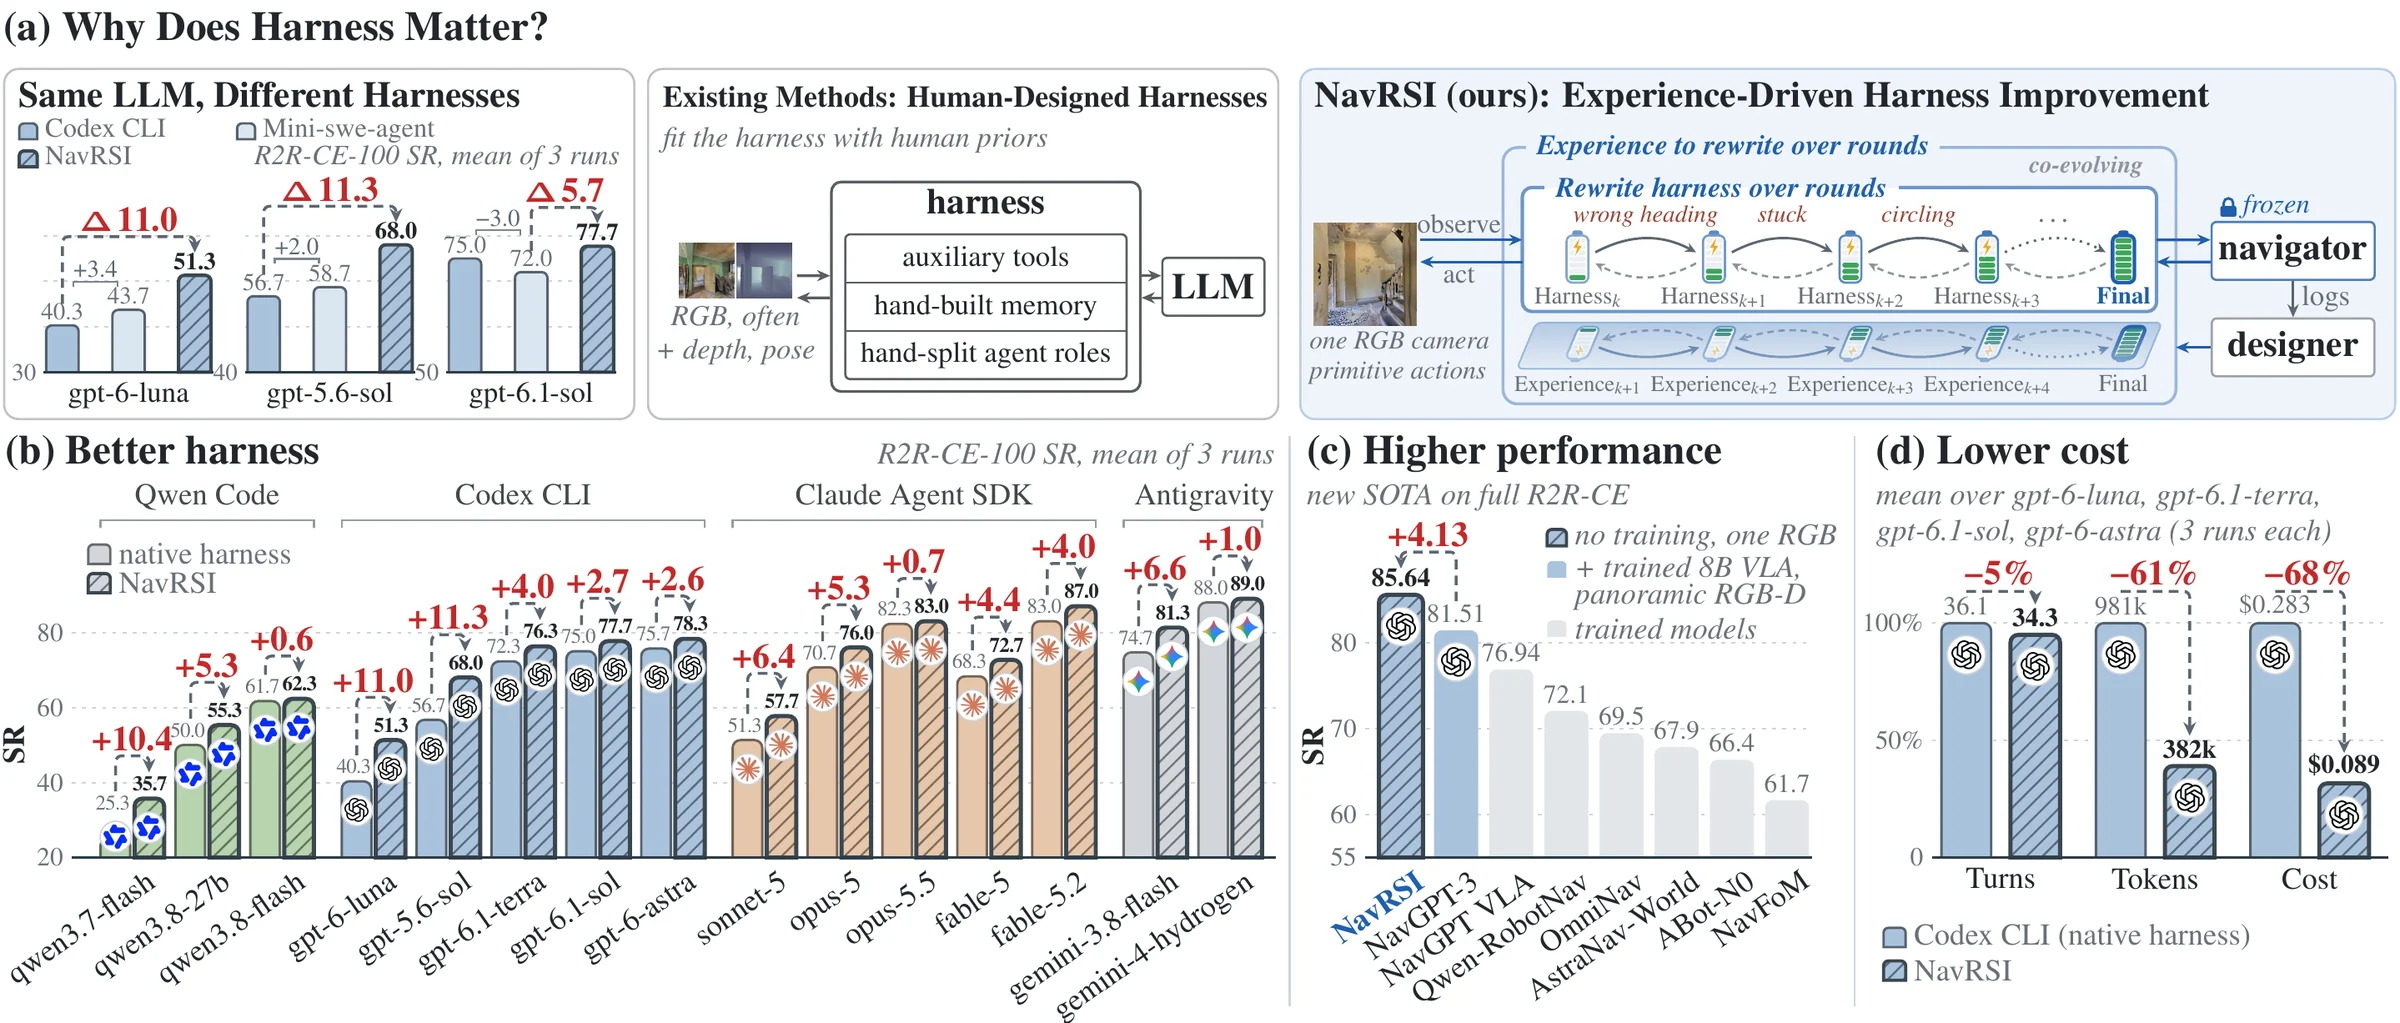
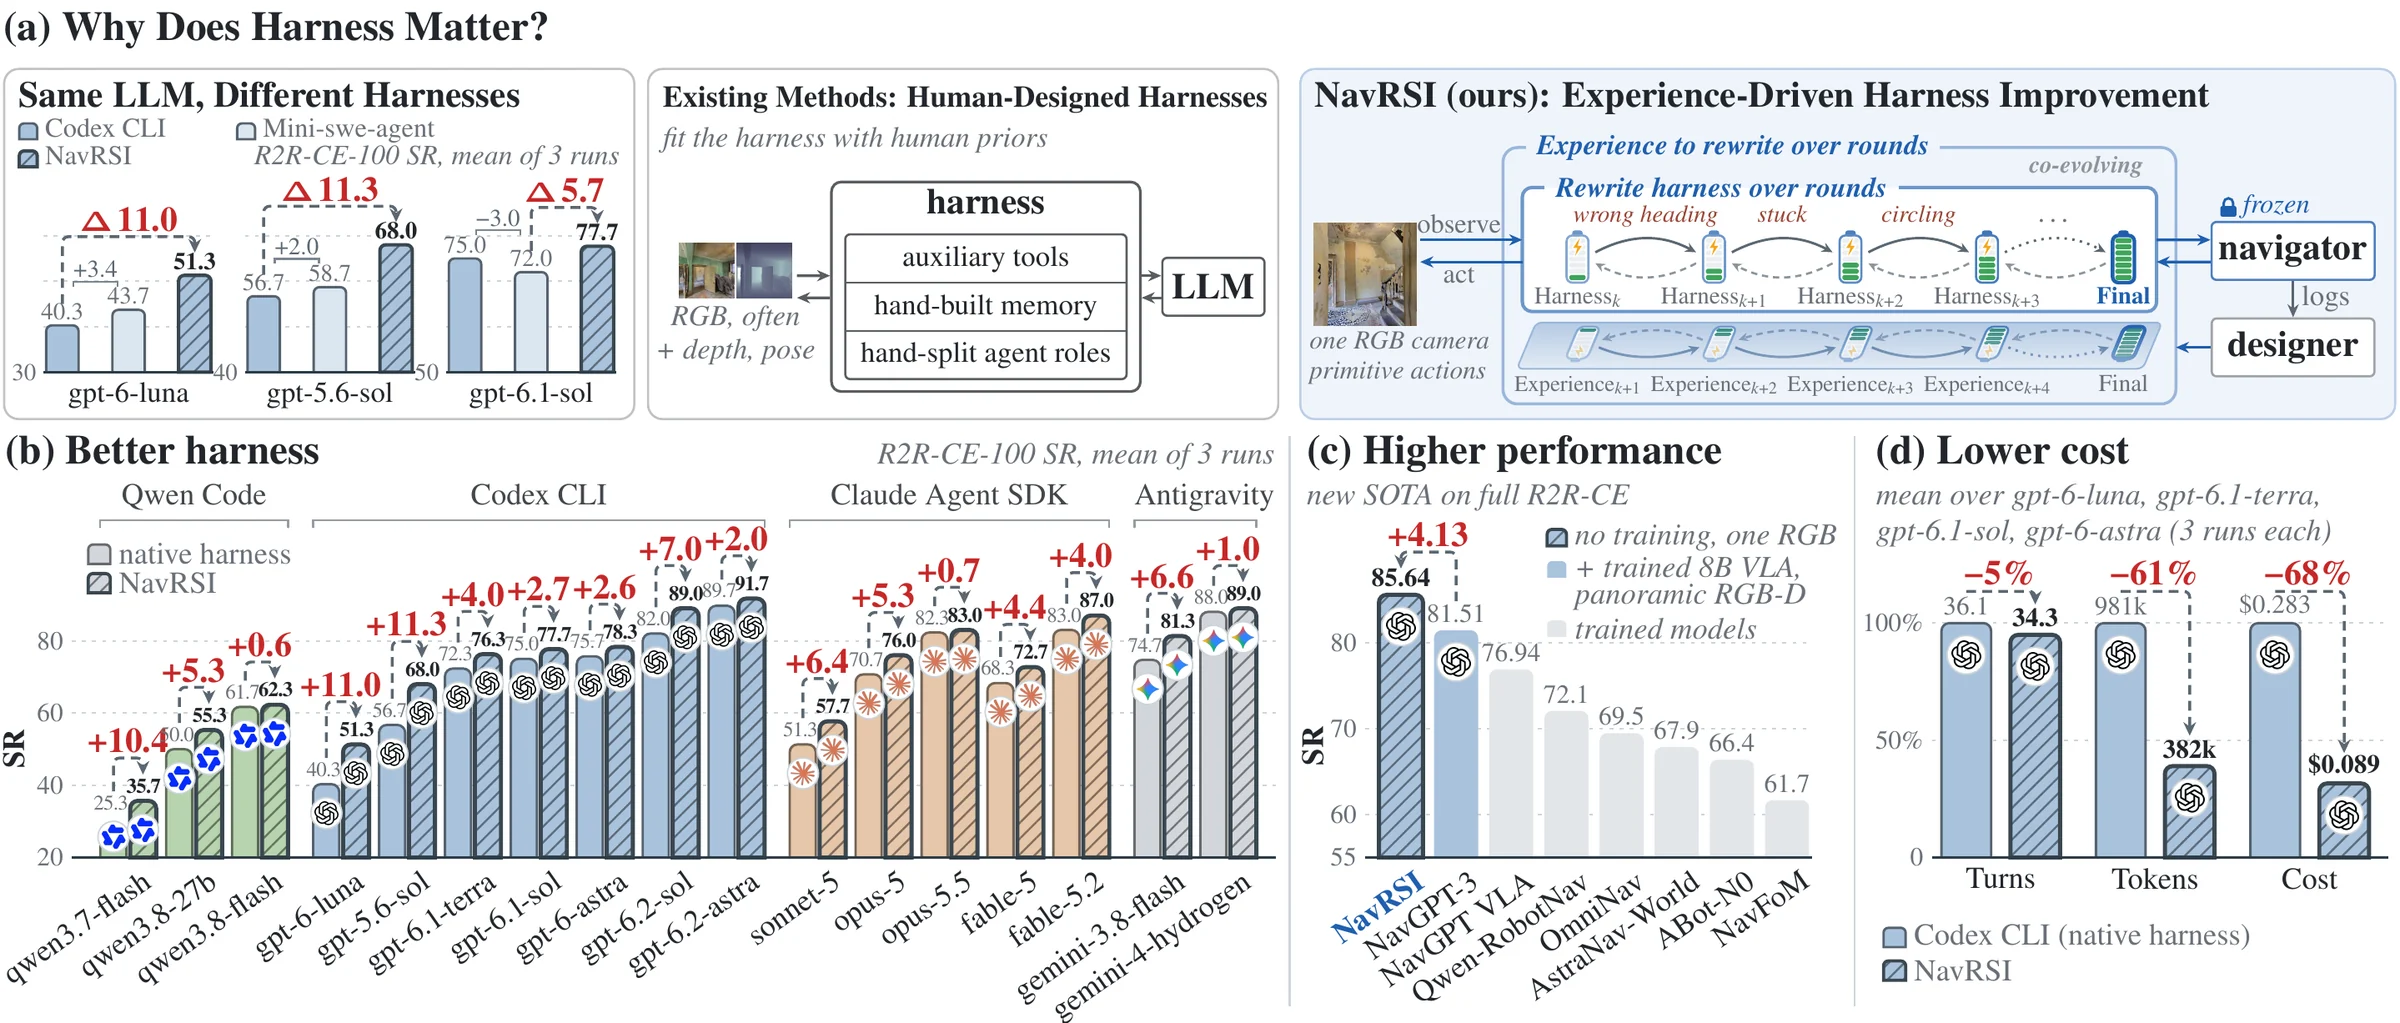
gpt-6.2 rows: costs at the official list prices, new teaser figure
The two rows now come from the paper's table (arXiv version); Fig. 1 shows
seventeen LLMs in panel (b).

diff --git a/assets/data.js b/assets/data.js
@@ -405,13 +405,16 @@ window.NAVRSI_DATA = {
    "harness": "Codex CLI",
    "vendor": "OpenAI",
    "logo": "openai",
-   "extra": true,
    "native": {
     "ne": 3.0,
     "osr": 88.0,
     "sr": 82.0,
     "spl": 70.9,
-    "cost": null
+    "turns": 26.5,
+    "cost": 0.097,
+    "tokens": 323.0,
+    "tokens_sr": 394.0,
+    "cost_sr": 0.118
    },
    "native_sd": {
     "ne": 0.02,
@@ -424,7 +427,11 @@ window.NAVRSI_DATA = {
     "osr": 94.3,
     "sr": 89.0,
     "spl": 78.9,
-    "cost": null
+    "turns": 22.5,
+    "cost": 0.099,
+    "tokens": 131.0,
+    "tokens_sr": 148.0,
+    "cost_sr": 0.112
    },
    "ours_sd": {
     "ne": 0.64,
@@ -432,20 +439,24 @@ window.NAVRSI_DATA = {
     "sr": 1.7,
     "spl": 0.5
    },
-   "note": "R2R-CE-100, medium effort, three runs each (2026-11-18); NavRSI runs r1,r2,r3; not in the paper's table"
+   "extra": true,
+   "note": "R2R-CE-100, medium effort, three runs each (2026-11-18); NavRSI runs r1,r2,r3; cost at the official list prices of 2026-11-18"
   },
   {
    "llm": "gpt-6.2-astra",
    "harness": "Codex CLI",
    "vendor": "OpenAI",
    "logo": "openai",
-   "extra": true,
    "native": {
     "ne": 1.8,
     "osr": 90.7,
     "sr": 89.7,
     "spl": 76.1,
-    "cost": null
+    "turns": 20.1,
+    "cost": 0.241,
+    "tokens": 212.0,
+    "tokens_sr": 237.0,
+    "cost_sr": 0.268
    },
    "native_sd": {
     "ne": 0.18,
@@ -458,7 +469,11 @@ window.NAVRSI_DATA = {
     "osr": 93.0,
     "sr": 91.7,
     "spl": 78.3,
-    "cost": null
+    "turns": 16.5,
+    "cost": 0.188,
+    "tokens": 77.0,
+    "tokens_sr": 84.0,
+    "cost_sr": 0.205
    },
    "ours_sd": {
     "ne": 0.31,
@@ -466,7 +481,8 @@ window.NAVRSI_DATA = {
     "sr": 1.2,
     "spl": 0.5
    },
-   "note": "R2R-CE-100, medium effort, three runs each (2026-11-18); NavRSI runs r2,r3,r4; not in the paper's table"
+   "extra": true,
+   "note": "R2R-CE-100, medium effort, three runs each (2026-11-18); NavRSI runs r2,r3,r4; cost at the official list prices of 2026-11-18"
   },
   {
    "llm": "gemini-3.8-flash",

diff --git a/index.html b/index.html
@@ -1304,7 +1304,7 @@ var D = window.NAVRSI_DATA || {native: [], sota: [], real: [], derived: {}};
     var f = function(v){ return c.log ? "$" + v.toFixed(v < .1 ? 3 : 2) : String(Math.round(v * 10) / 10); };
     $(".a0", host).textContent = f(c.min); $(".a2", host).textContent = f(c.max); $(".a1", host).textContent = c.lab + (c.hi ? "  → better" : "  ← better");
     var have = D.native.filter(function(r){ return r.native[metric] != null && r.ours[metric] != null; }), n = have.length, w = have.filter(function(r){ return c.hi ? r.ours[metric] >= r.native[metric] : r.ours[metric] <= r.native[metric]; }).length;
-    $("#nativeCap").innerHTML = "<b>" + c.lab.replace(" (m)", "").replace(" per episode (USD)", "") + ":</b> NavRSI is better or equal on " + w + " of " + n + " LLMs. Grey dot: native harness. Bright dot: the same LLM in the NavRSI harness. Cost is per episode at list prices, log scale." + (D.native.some(function(r){ return r.extra; }) ? " Rows marked <b>new</b> (gpt-6.2-sol, gpt-6.2-astra) were measured after the paper, at medium reasoning effort, and have no cost yet." : "");
+    $("#nativeCap").innerHTML = "<b>" + c.lab.replace(" (m)", "").replace(" per episode (USD)", "") + ":</b> NavRSI is better or equal on " + w + " of " + n + " LLMs. Grey dot: native harness. Bright dot: the same LLM in the NavRSI harness. Cost is per episode at list prices, log scale." + (D.native.some(function(r){ return r.extra; }) ? " Rows marked <b>new</b> (gpt-6.2-sol, gpt-6.2-astra) were measured after the submission, at medium reasoning effort." : "");
   }
   function seg(id, attr, cb){ $$("#" + id + " button").forEach(function(b){ b.addEventListener("click", function(){ $$("#" + id + " button").forEach(function(o){ o.classList.toggle("on", o === b); }); cb(b.getAttribute(attr)); render(); }); }); }
   seg("segMetric", "data-m", function(v){ metric = v; }); seg("segVendor", "data-v", function(v){ vendor = v; });

diff --git a/tools/extract_data.py b/tools/extract_data.py
@@ -54,6 +54,9 @@ for a, b in zip(srows[0::2], srows[1::2]):
 # rows measured after the paper (tools/extra_native.json), placed after the last row of the same native harness
 extra = json.loads((pathlib.Path(__file__).resolve().parent / "extra_native.json").read_text())
 for x in extra:
+    have = [r for r in native if r["llm"] == x["llm"]]
+    if have:  # the row is in the paper's table by now: keep the table's numbers, only mark it as new
+        have[0]["extra"] = True; have[0]["note"] = x["note"]; continue
     last = max(i for i, r in enumerate(native) if r["harness"] == x["harness"])
     native.insert(last + 1, x)
 gains = [round(r["ours"]["sr"] - r["native"]["sr"], 1) for r in native]
